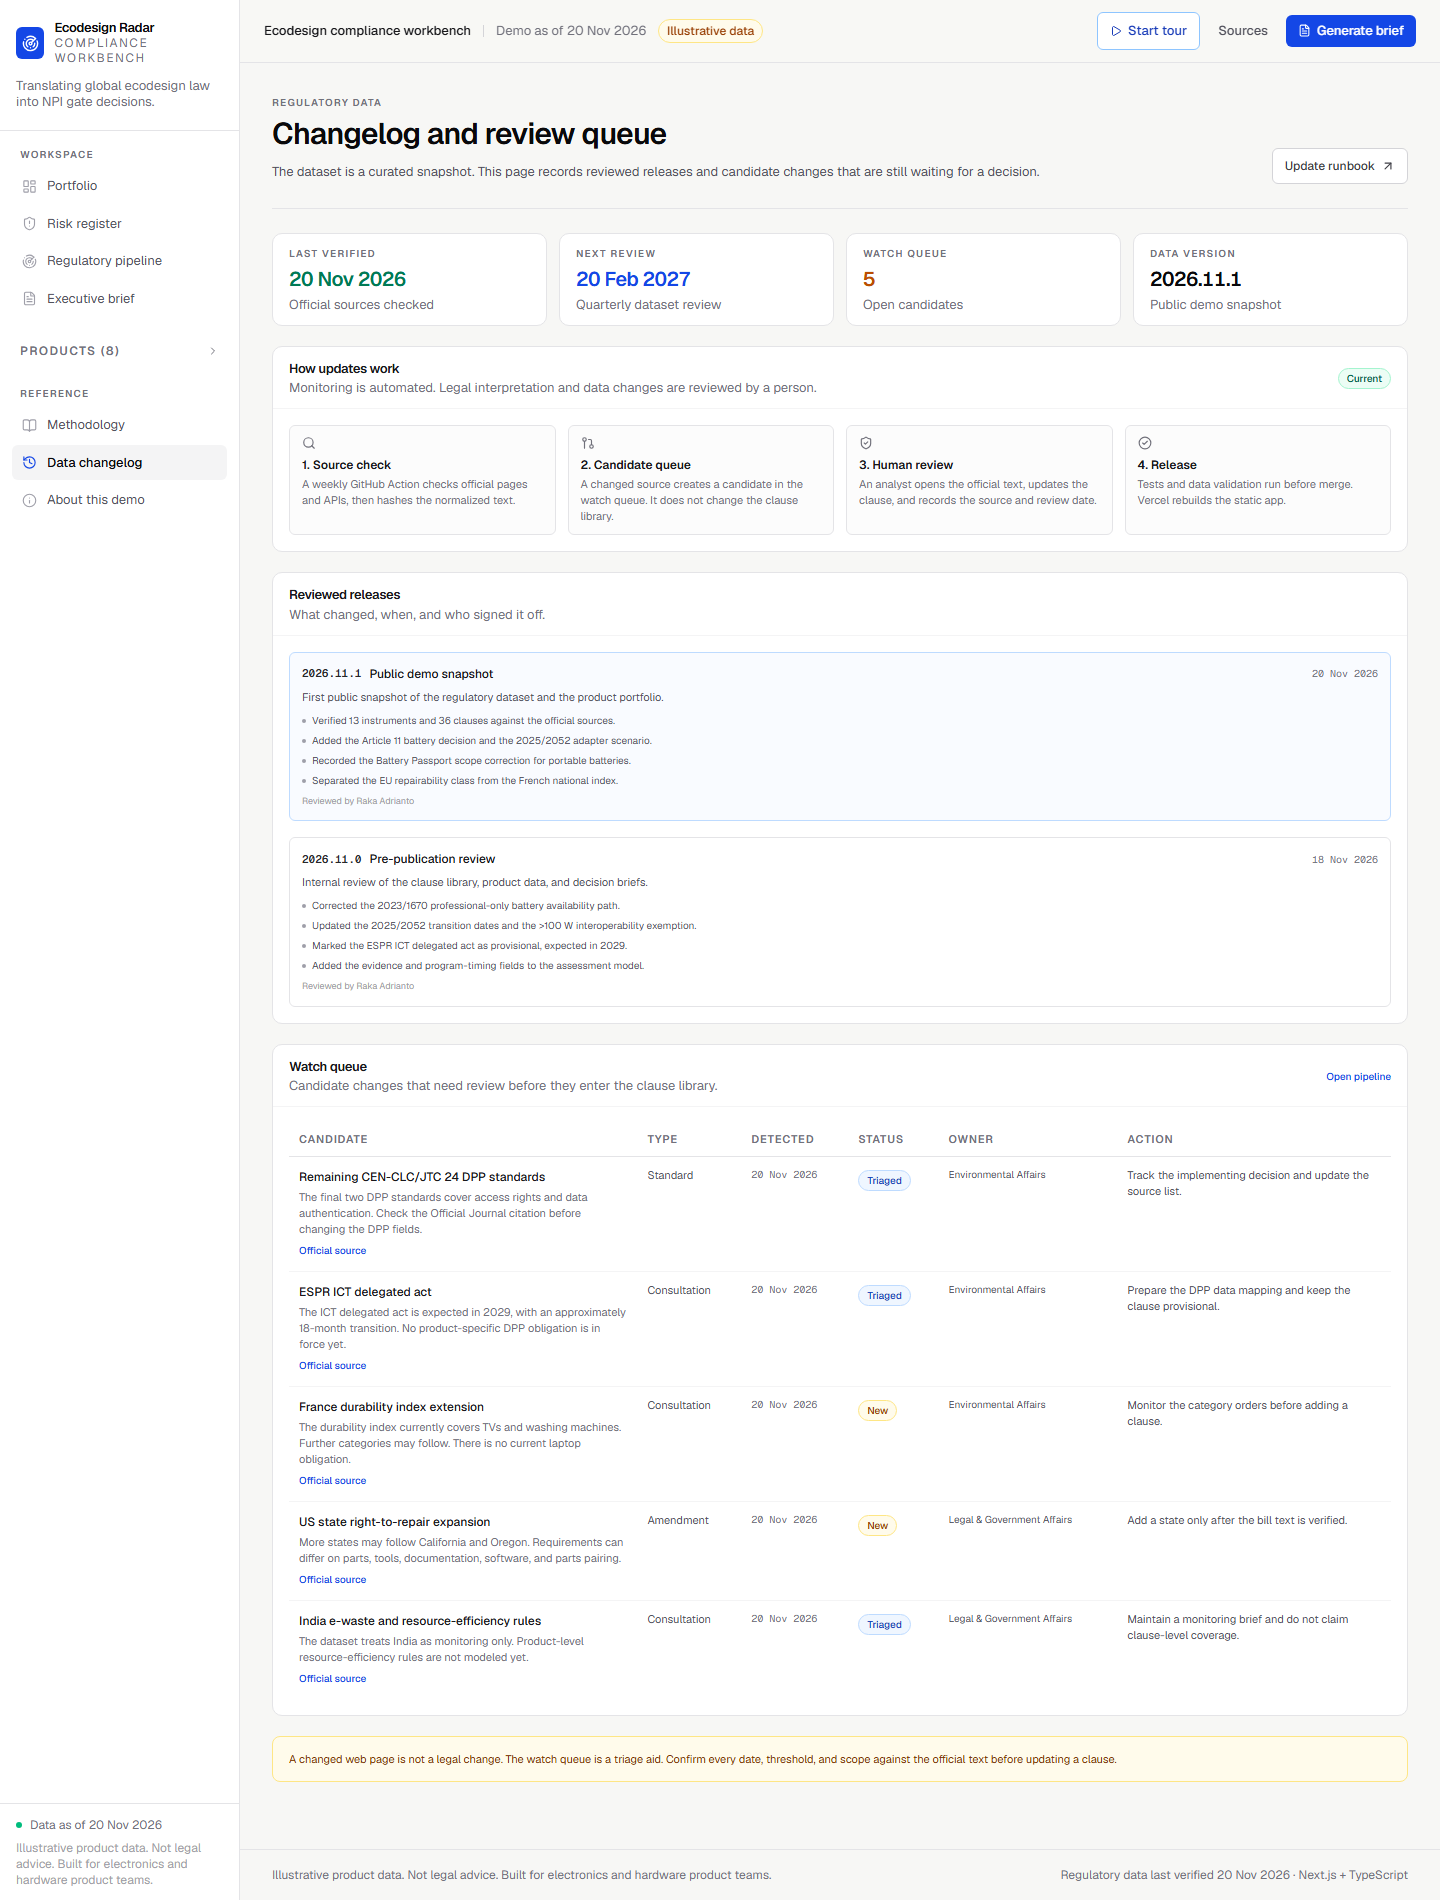
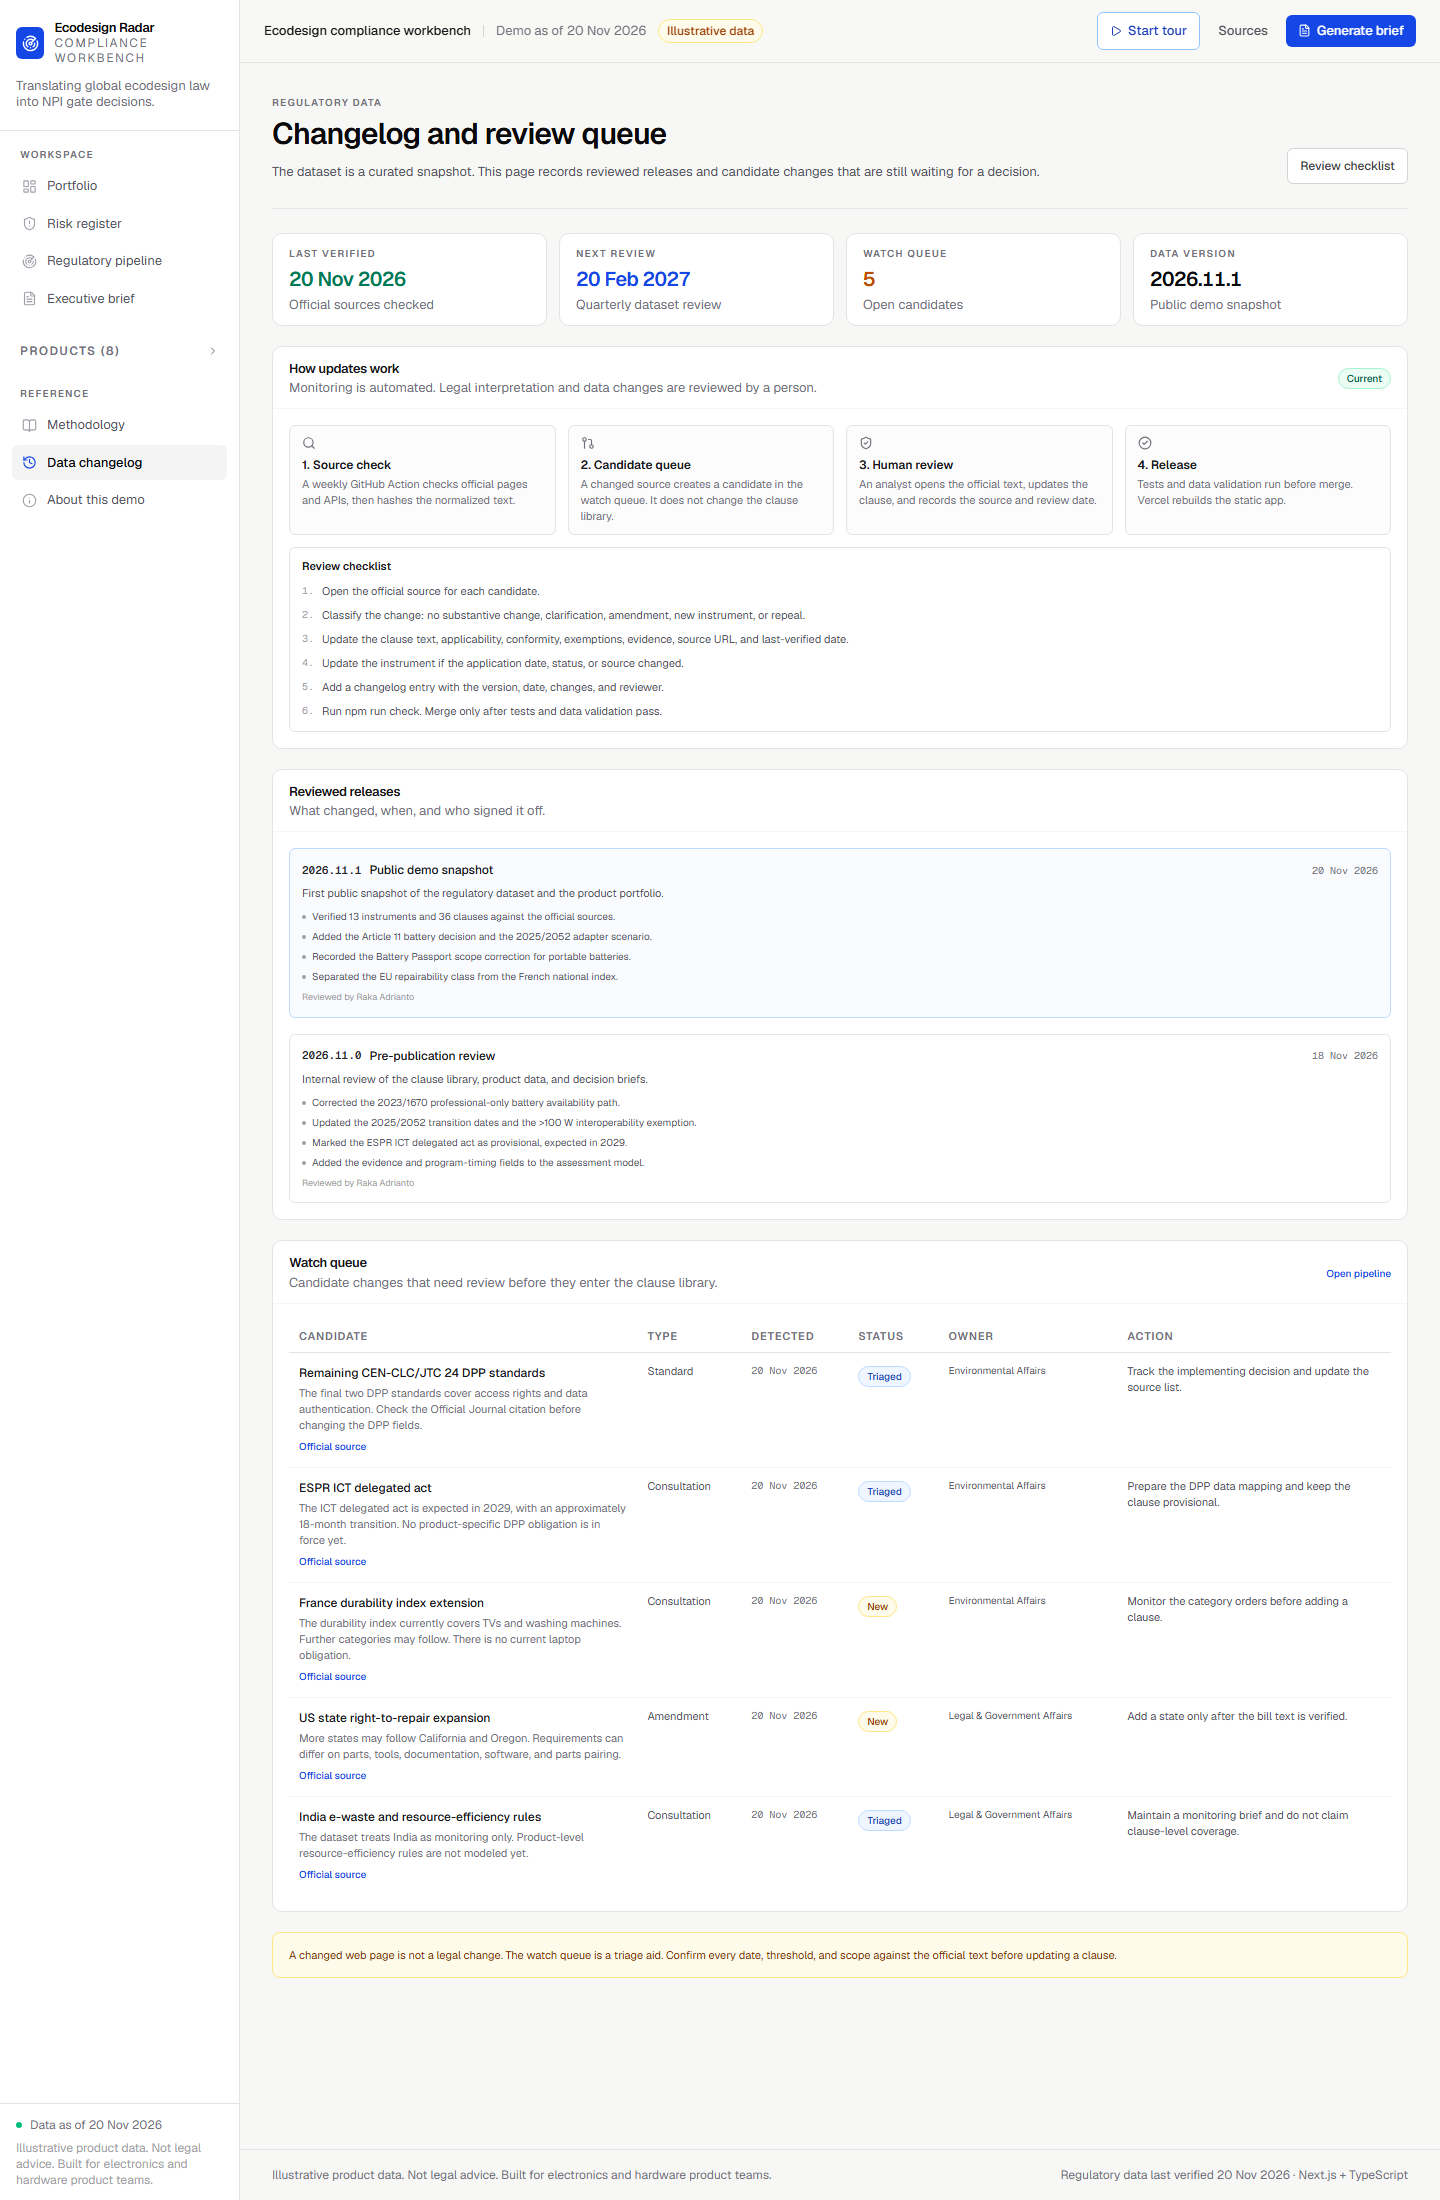
feat: add in-app review checklist to changelog

diff --git a/src/app/changelog/page.tsx b/src/app/changelog/page.tsx
@@ -1,7 +1,6 @@
 import Link from "next/link";
 import type { Metadata } from "next";
 import {
-  ArrowUpRight,
   CheckCircle2,
   GitPullRequest,
   Search,
@@ -27,9 +26,6 @@ export const metadata: Metadata = {
   title: "Regulatory data changelog",
 };
 
-const RUNBOOK_URL =
-  "https://github.com/lugasraka/hardware-ecodesign-compliance-radar/blob/main/docs/regulatory-update-runbook.md";
-
 const UPDATE_STEPS = [
   {
     icon: Search,
@@ -53,6 +49,15 @@ const UPDATE_STEPS = [
   },
 ];
 
+const REVIEW_CHECKLIST = [
+  "Open the official source for each candidate.",
+  "Classify the change: no substantive change, clarification, amendment, new instrument, or repeal.",
+  "Update the clause text, applicability, conformity, exemptions, evidence, source URL, and last-verified date.",
+  "Update the instrument if the application date, status, or source changed.",
+  "Add a changelog entry with the version, date, changes, and reviewer.",
+  "Run npm run check. Merge only after tests and data validation pass.",
+];
+
 export default function ChangelogPage() {
   const latestRelease = dataReleases[0];
   const openWatchItems = regulatoryWatch.filter(
@@ -67,13 +72,10 @@ export default function ChangelogPage() {
         description="The dataset is a curated snapshot. This page records reviewed releases and candidate changes that are still waiting for a decision."
         actions={
           <a
-            href={RUNBOOK_URL}
-            target="_blank"
-            rel="noreferrer"
+            href="#review-checklist"
             className="inline-flex items-center gap-1.5 rounded-md border border-zinc-300 bg-white px-3 py-2 text-[12px] font-medium text-zinc-700 hover:border-zinc-400"
           >
-            Update runbook
-            <ArrowUpRight size={14} />
+            Review checklist
           </a>
         }
       />
@@ -128,6 +130,28 @@ export default function ChangelogPage() {
               </div>
             );
           })}
+        </div>
+
+        <div
+          id="review-checklist"
+          className="mt-3 scroll-mt-24 rounded-md border border-zinc-200 bg-white px-3 py-2.5"
+        >
+          <p className="text-[11px] font-semibold text-zinc-900">
+            Review checklist
+          </p>
+          <ol className="mt-1.5 space-y-1">
+            {REVIEW_CHECKLIST.map((item, index) => (
+              <li
+                key={item}
+                className="flex gap-2 text-[11px] leading-5 text-zinc-600"
+              >
+                <span className="font-mono text-[10px] text-zinc-400">
+                  {index + 1}.
+                </span>
+                {item}
+              </li>
+            ))}
+          </ol>
         </div>
       </Panel>
 

diff --git a/src/app/methodology/page.tsx b/src/app/methodology/page.tsx
@@ -17,9 +17,6 @@ import { formatDate } from "@/lib/date";
 import { cn } from "@/lib/utils";
 import { FreshnessBadge } from "@/components/freshness-badge";
 
-const RUNBOOK_URL =
-  "https://github.com/lugasraka/hardware-ecodesign-compliance-radar/blob/main/docs/regulatory-update-runbook.md";
-
 const SECTIONS = [
   { id: "thesis", label: "Four things to keep separate" },
   { id: "engine", label: "How the engine works" },
@@ -124,15 +121,12 @@ export default function MethodologyPage() {
           >
             Changelog
           </Link>
-          <a
-            href={RUNBOOK_URL}
-            target="_blank"
-            rel="noreferrer"
+          <Link
+            href="/changelog/#review-checklist"
             className="inline-flex items-center gap-1 text-[11px] font-medium text-zinc-500 hover:text-blue-700"
           >
-            Update runbook
-            <ArrowUpRight size={10} />
-          </a>
+            Review checklist
+          </Link>
         </div>
       </div>
 
